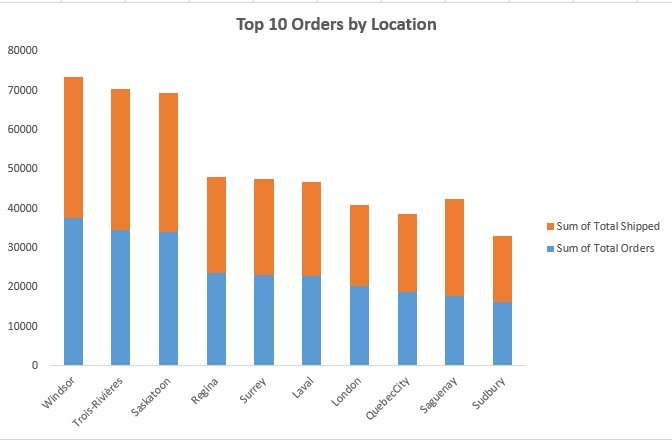
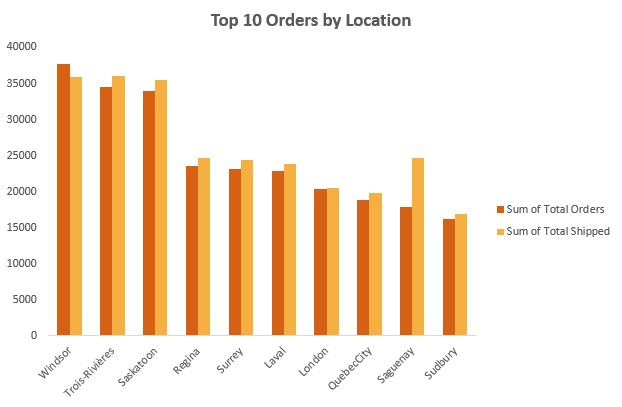
updating the right image of locations, and making the extensions of images to .jpg

diff --git a/README.md b/README.md
@@ -29,9 +29,9 @@ This project analyzes four weeks of distribution center order and shipment data 
 - Revenue Gap
 
 ## Dashboard
-![Dashboard](KPI_cards.png)
-![Dashboard](top_10_orders_by_location.png)
-![Dashboard](top_10_products.png)
+![Dashboard](KPI_cards.jpg)
+![Dashboard](top_10_orders_by_location.jpg)
+![Dashboard](top_10_products.jpg)
 
 ## Key Findings
 
